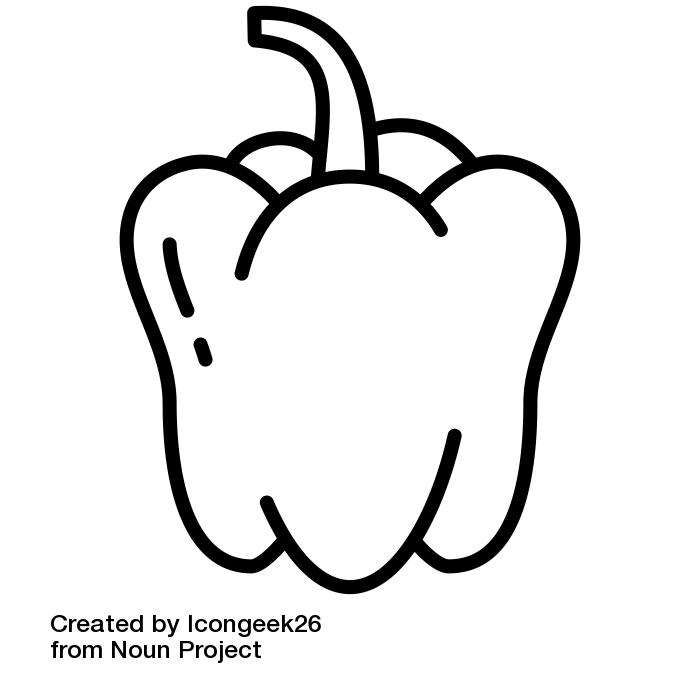
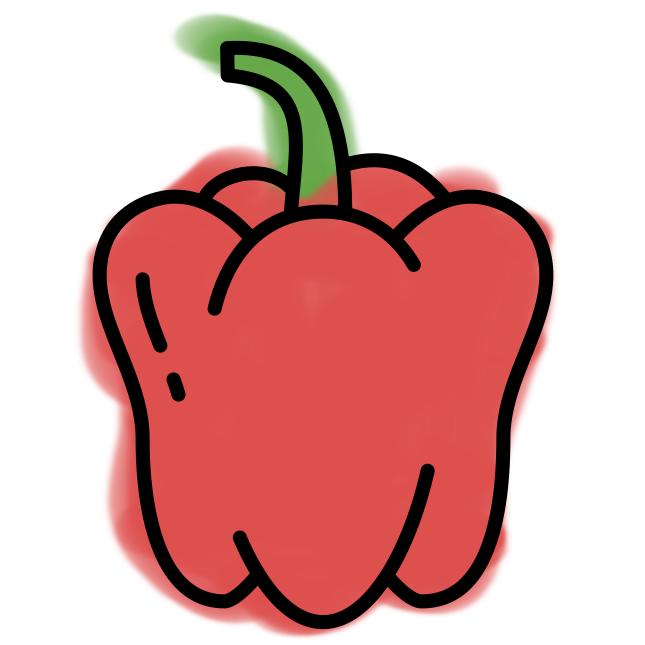
color work, login box, veg cards

diff --git a/public/css/stylesheet.css b/public/css/stylesheet.css
@@ -1,10 +1,10 @@
 :root {
     --main-color: #fafafc;
-    --color2: #3d4a39;
-    --color3: #efeeed;
-    --color4: #8f9f88;
+    --color2: rgb(12, 15, 7);
+    --color3: rgb(163, 200, 159);
+    --color4: rgb(93, 121, 34);
     --color5: #e2b6aa;
-    --color6: #f9e2d6;
+    --color6: #2c4629;
 
 }
 
@@ -14,14 +14,34 @@
     
 }
 .navbar {
-    background-color: var(--color4);
-    color: var(--color2);
+    background-color: var(--color3);
+    color: var(--color6);
+}
+
+.nav-link {
+    color: var(--color6);
 }
 
 footer {
-    background-color: var(--color4);
+    background-color: var(--color3);
 }
 
+/* homepage */
+.home-container {
+    display: flex;
+    flex-flow: row wrap;
+
+}
+
+.home-row {
+    flex-direction: row;
+    border: 1px solid var(--color2);
+    margin: 2% 2% 2% 2%;
+    padding: 2% 2% 2% 2%;
+   border-radius: 15px;
+   background-color: var(--color3);
+   
+}
 /* cards */
 .card-container {
     display: flex;
@@ -32,18 +52,20 @@ footer {
 
 .card-row{
     flex-direction: row;
-    
+    border: 1px solid var(--color2);
+    padding: 2% 2% 2% 2%;
+   border-radius: 15px;
+   background-image: url("/views/images/tomato.png");
+   background-color: var(--color3);
+   
 }
 
-.card-body {
-   border: 1px solid var(--color2);
-   border-radius: 15px;ß
-}
 
 .add-produce {
     background-color: var(--color4);
-    border: 1px solid var(--color4);
+    border: 1px solid var(--color2);
     border-radius: 5px;
+    color: var(--color2);
 }
 
 .card-img {
